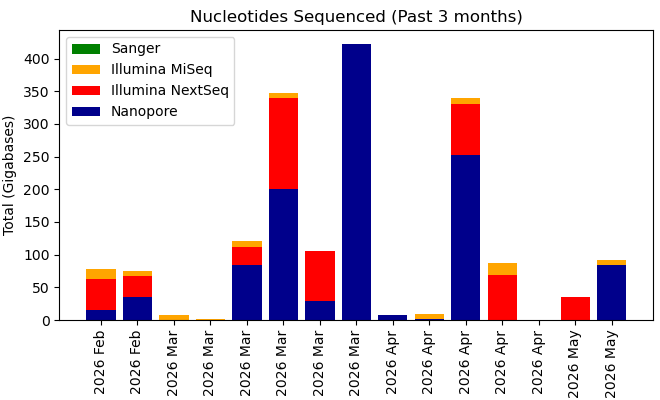
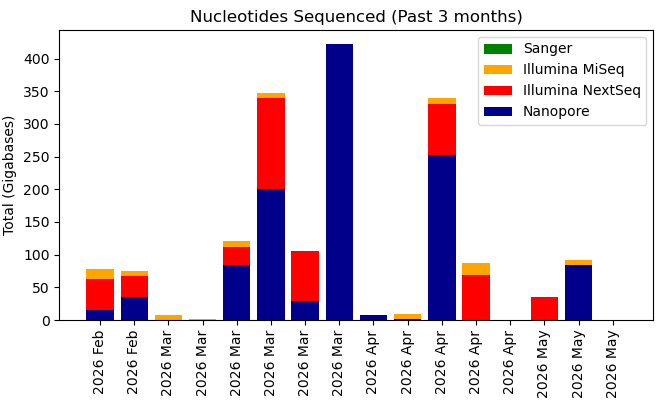
Your commit message here

diff --git a/krona/cgs.html b/krona/cgs.html
@@ -52,8 +52,8 @@ body {
   flex-direction: column;
 }
 </style>
-<H1>Genomics Facility Status: 07:00:17, 12/05/2026</H1>
-<marquee behavior="scroll" scrollamount="20" direction="left" bgcolor="lightgrey">AGAGTTTGATCCTGGCTCAGGACGAACGCTAGCGACAGGCTTAACACATGCAAGTCGAGGGGGAGTATGCGGAACGAGGACTCGTCCAAGTGCAGCAGAAGGGAGTGGCAGACGGGTGAAAAACGCGCGAAGAACCGGCCTTTCACAGGGGGACAAGAGTTTAAAACCACTGCTAATATCACACTGCACGTGGAGGTCGCTTAATCTTTAAGGCAAAGGATTAGCCCTGCAACATGTTCTTGCGTGGGGGG</marquee>
+<H1>Genomics Facility Status: 07:00:18, 13/05/2026</H1>
+<marquee behavior="scroll" scrollamount="20" direction="left" bgcolor="lightgrey">AGAGTTTGATCCTGGCTCAGGACGAACGCTGGCGGCACGCTTAACACATGCAAGTCGAACGAGAGTAGAGTGGATTGTTTTTTTGATATAGTTGTGGTTGAGTTTAGTAGACGTGGGGAATGTACCTCTTGGGTGAGGTTACCGAATGGGAAGGATCACAATTTCAAAATAATAATAATAAACCATGTGATTTCGTTATCAAAGGTTTCTCGCTTCAAAGTATGTTCGCGTTTGATTAGTTCGTTGGTA</marquee>
 <TABLE BORDER=0><TR><TD><TABLE class="styled-table"><H3>GigaBases Sequenced</H3>
-<TR><TD><b>Platform</b></TD><TD><b>Week</b></TD><TD><b>Month</b></TD><TD><b>Year</b></TD><TD><b>Total</b></TD></TR><TR><TD>Illumina MiSeq</TD><TD>7.72</TD><TD>34.12</TD><TD>361.33</TD><TD>559.14</TD></TR><TR><TD>Illumina NextSeq</TD><TD>0.0</TD><TD>182.4</TD><TD>4316.11</TD><TD>6646.34</TD></TR><TR><TD>Nanopore PromethION</TD><TD>83.65</TD><TD>336.68</TD><TD>7526.73</TD><TD>12216.33</TD></TR><TR><TD>Sanger</TD><TD>0.0</TD><TD>0.0</TD><TD>0.02</TD><TD>0.04</TD></TR></TABLE></TD><TD><IMG SRC="fig1.png"><IMG SRC="fig2.png"></TD></TR><TR><TD><H3>No. Samples (No. Experiments)</H3>
-<TABLE class="styled-table"><TR><TD><b>Platform</b></TD><TD><b>Week</b></TD><TD><b>Month</b></TD><TD><b>Year</b></TD><TD><b>Total</b></TD></TR><TR><TD>Illumina MiSeq</TD><TD>36 (1)</TD><TD>92 (5)</TD><TD>1454 (71)</TD><TD>2466 (99)</TD></TR><TR><TD>Illumina NextSeq</TD><TD>0 (0)</TD><TD>101 (4)</TD><TD>1395 (65)</TD><TD>2186 (87)</TD></TR><TR><TD>Nanopore PromethION</TD><TD>12 (2)</TD><TD>61 (17)</TD><TD>595 (190)</TD><TD>1002 (345)</TD></TR><TR><TD>Sanger</TD><TD>384 (384)</TD><TD>2016 (2016)</TD><TD>21115 (21115)</TD><TD>44706 (44706)</TD></TR></TABLE></TD><TD><IMG SRC="fig4.png"></TD></TR></TABLE></HTML>
+<TR><TD><b>Platform</b></TD><TD><b>Week</b></TD><TD><b>Month</b></TD><TD><b>Year</b></TD><TD><b>Total</b></TD></TR><TR><TD>Illumina MiSeq</TD><TD>7.72</TD><TD>34.12</TD><TD>361.33</TD><TD>559.14</TD></TR><TR><TD>Illumina NextSeq</TD><TD>0.0</TD><TD>182.4</TD><TD>4316.11</TD><TD>6646.34</TD></TR><TR><TD>Nanopore PromethION</TD><TD>51.32</TD><TD>336.68</TD><TD>7526.73</TD><TD>12216.33</TD></TR><TR><TD>Sanger</TD><TD>0.0</TD><TD>0.0</TD><TD>0.02</TD><TD>0.05</TD></TR></TABLE></TD><TD><IMG SRC="fig1.png"><IMG SRC="fig2.png"></TD></TR><TR><TD><H3>No. Samples (No. Experiments)</H3>
+<TABLE class="styled-table"><TR><TD><b>Platform</b></TD><TD><b>Week</b></TD><TD><b>Month</b></TD><TD><b>Year</b></TD><TD><b>Total</b></TD></TR><TR><TD>Illumina MiSeq</TD><TD>36 (1)</TD><TD>92 (5)</TD><TD>1454 (71)</TD><TD>2466 (99)</TD></TR><TR><TD>Illumina NextSeq</TD><TD>0 (0)</TD><TD>101 (4)</TD><TD>1395 (65)</TD><TD>2186 (87)</TD></TR><TR><TD>Nanopore PromethION</TD><TD>12 (5)</TD><TD>65 (21)</TD><TD>599 (194)</TD><TD>1006 (349)</TD></TR><TR><TD>Sanger</TD><TD>576 (576)</TD><TD>2112 (2112)</TD><TD>21307 (21307)</TD><TD>44898 (44898)</TD></TR></TABLE></TD><TD><IMG SRC="fig4.png"></TD></TR></TABLE></HTML>
